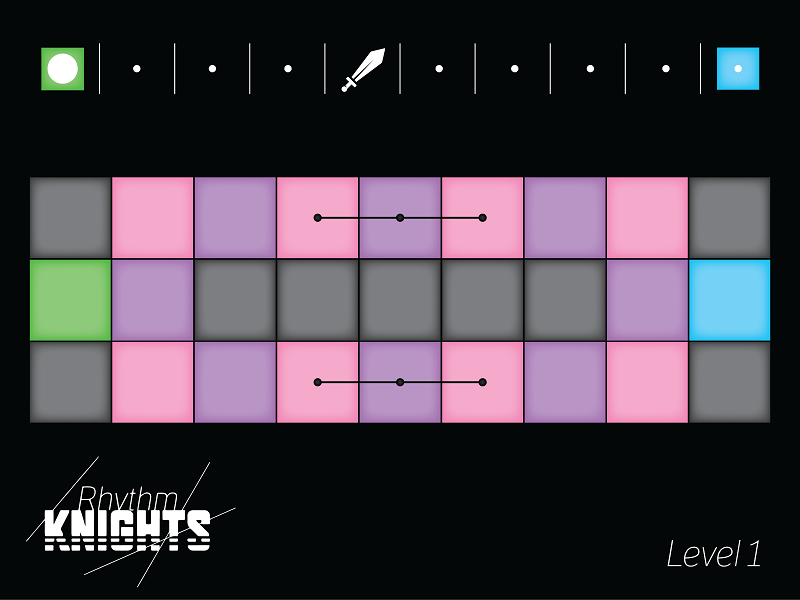
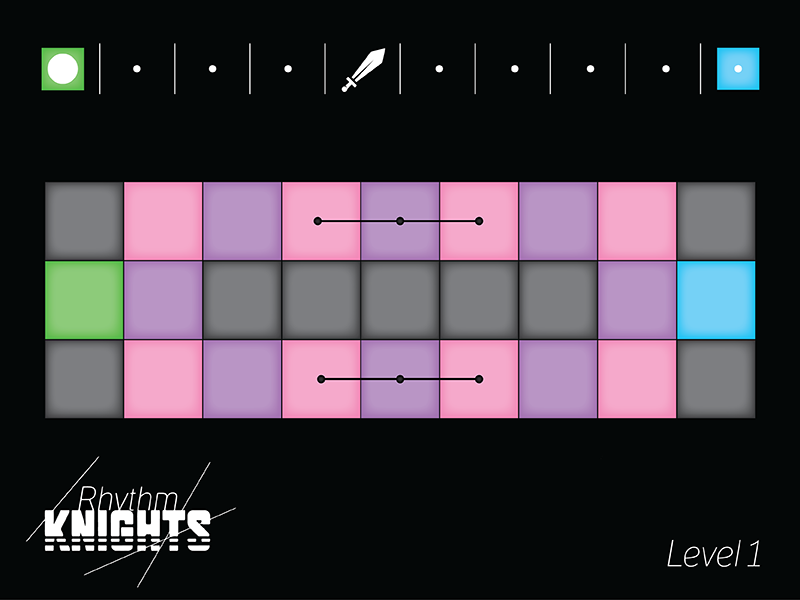
fixed some pictures and their alignments

Changed region(s): [[0.0312, 0.27, 0.9688, 0.72], [0.0625, 0.81, 0.25, 0.93], [0.875, 0.9, 0.9375, 0.93]]

diff --git a/deliverables/gameplay/core/src/edu/cornell/cs3152/gameplayprototype/Knight.java b/deliverables/gameplay/core/src/edu/cornell/cs3152/gameplayprototype/Knight.java
@@ -106,8 +106,8 @@ public class Knight{
 		FilmStrip sprite = new FilmStrip(knightTexture, 1, 1);
 		Vector2 curPos = this.position;
 		Vector2 loc = new Vector2();
-		loc.x = curPos.x*80 + 35;
-		loc.y = curPos.y*80 + 185;
+		loc.x = curPos.x*79 + 45;
+		loc.y = curPos.y*79 + 182;
 		canvas.draw(sprite, loc.x, loc.y);
 	}
 

diff --git a/deliverables/gameplay/core/src/edu/cornell/cs3152/gameplayprototype/Enemy.java b/deliverables/gameplay/core/src/edu/cornell/cs3152/gameplayprototype/Enemy.java
@@ -50,8 +50,8 @@ public class Enemy{
 		FilmStrip sprite = new FilmStrip(enemyTexture, 1, 1);
 		Vector2 curPos = this.position;
 		Vector2 loc = new Vector2();
-		loc.x = curPos.x*80 + 35;
-		loc.y = curPos.y*80 + 185;
+		loc.x = curPos.x*79 + 45;
+		loc.y = curPos.y*79 + 182;
 		canvas.draw(sprite, loc.x, loc.y);
 	}
 
